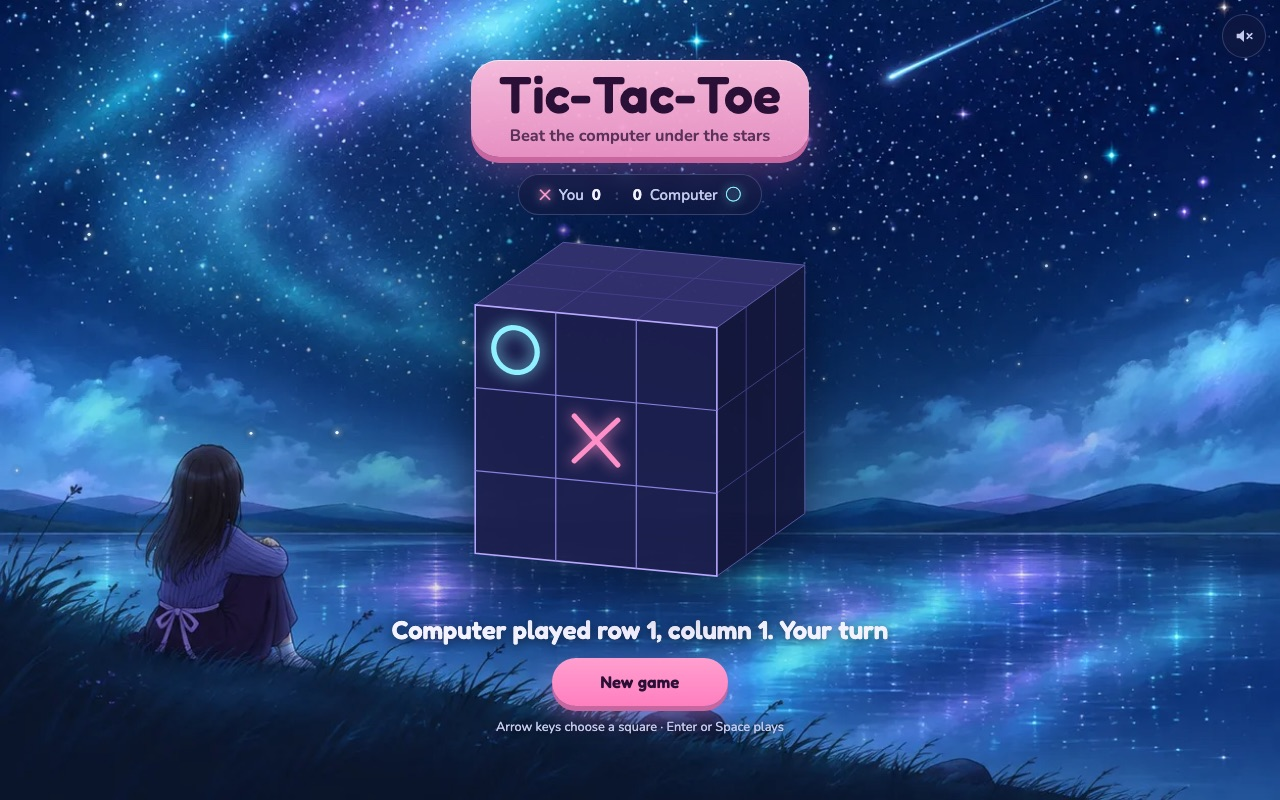
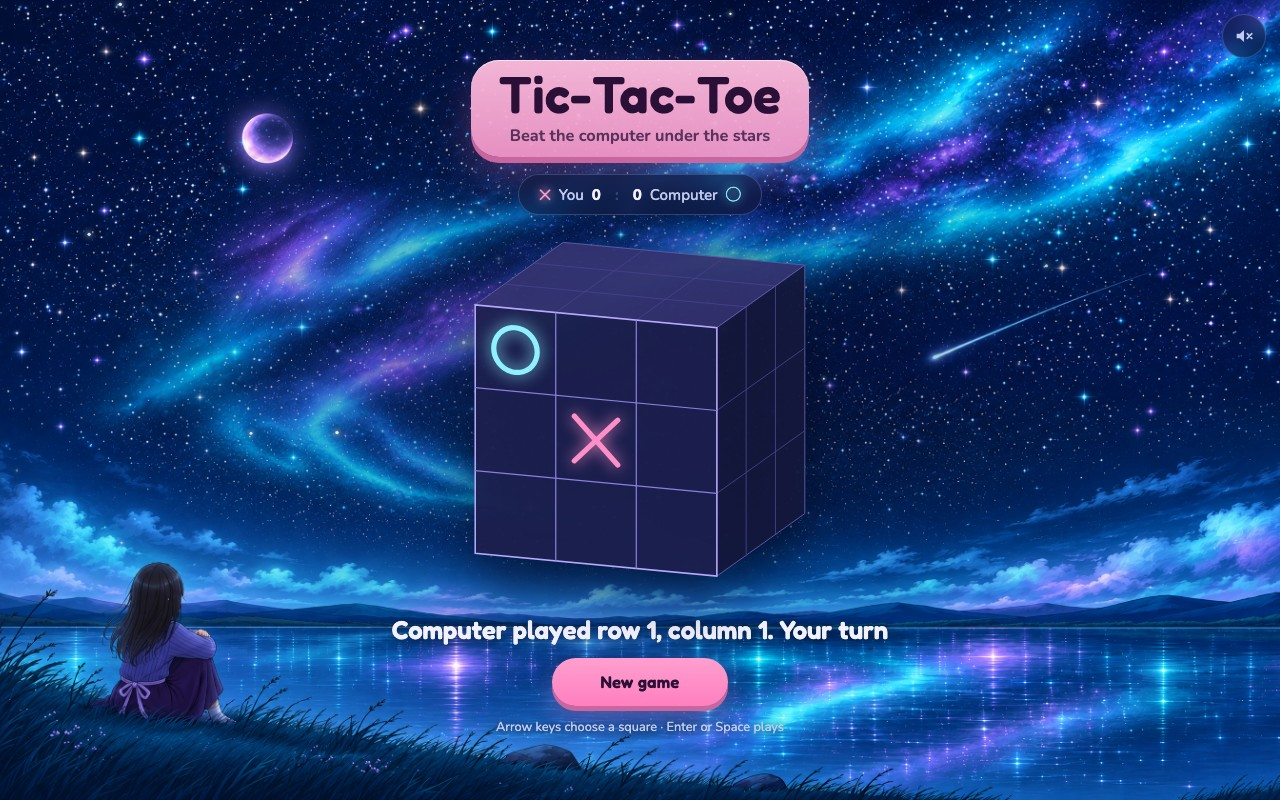
Use the wide illustration at full resolution (#11)
The new 2987×1680 background is served losslessly as WebP (pixel-identical
to the source), with a high-quality JPEG fallback. Narrow screens frame
the left side so the stargazer stays visible.

diff --git a/docs/styles.css b/docs/styles.css
@@ -33,18 +33,22 @@ body {
 
 /* The illustration stays anchored to the bottom-left, where the stargazer sits. */
 body::before {
+  --scrim: radial-gradient(ellipse 60% 55% at 50% 45%, rgb(6 9 30 / 0.45), transparent 75%);
+  --focus-x: 12%;
   content: "";
   position: fixed;
   inset: 0;
-  /* Fallback for browsers without image-set(). */
+  /* Fallback for browsers without image-set(). The WebP is lossless. */
+  background: var(--scrim), url("background.jpg") var(--focus-x) 100% / cover no-repeat, #0b1230;
   background:
-    radial-gradient(ellipse 60% 55% at 50% 45%, rgb(6 9 30 / 0.45), transparent 75%),
-    url("background.jpg") 18% 100% / cover no-repeat,
+    var(--scrim),
+    image-set(url("background.webp") type("image/webp"), url("background.jpg") type("image/jpeg")) var(--focus-x) 100% / cover no-repeat,
     #0b1230;
-  background:
-    radial-gradient(ellipse 60% 55% at 50% 45%, rgb(6 9 30 / 0.45), transparent 75%),
-    image-set(url("background.webp") type("image/webp"), url("background.jpg") type("image/jpeg")) 18% 100% / cover no-repeat,
-    #0b1230;
+}
+
+/* Narrow screens crop the sides; keep the stargazer in frame. */
+@media (max-width: 900px) {
+  body::before { --focus-x: 9%; }
 }
 
 #bg-canvas {

diff --git a/README.md b/README.md
@@ -29,7 +29,7 @@ The computer always takes a winning move or blocks yours, except when it deliber
 | `docs/geometry.js` | 3D rotation, 2D projection and the matching transform for the HTML grid |
 | `docs/scene.js` | High-DPI Canvas rendering and animation of the cube |
 | `docs/sky.js` | Animated layer over the illustration: twinkling and shooting stars |
-| `docs/background.webp` | Background illustration, with a JPEG fallback |
+| `docs/background.webp` | Background illustration at full resolution, lossless, with a JPEG fallback |
 | `docs/audio.js` | Opt-in background music with fades and a synthesized click (Web Audio) |
 | `docs/music.m4a` | Background track, made with [Suno](https://suno.com) |
 | `docs/dom.js` | Typed lookup of required elements |
